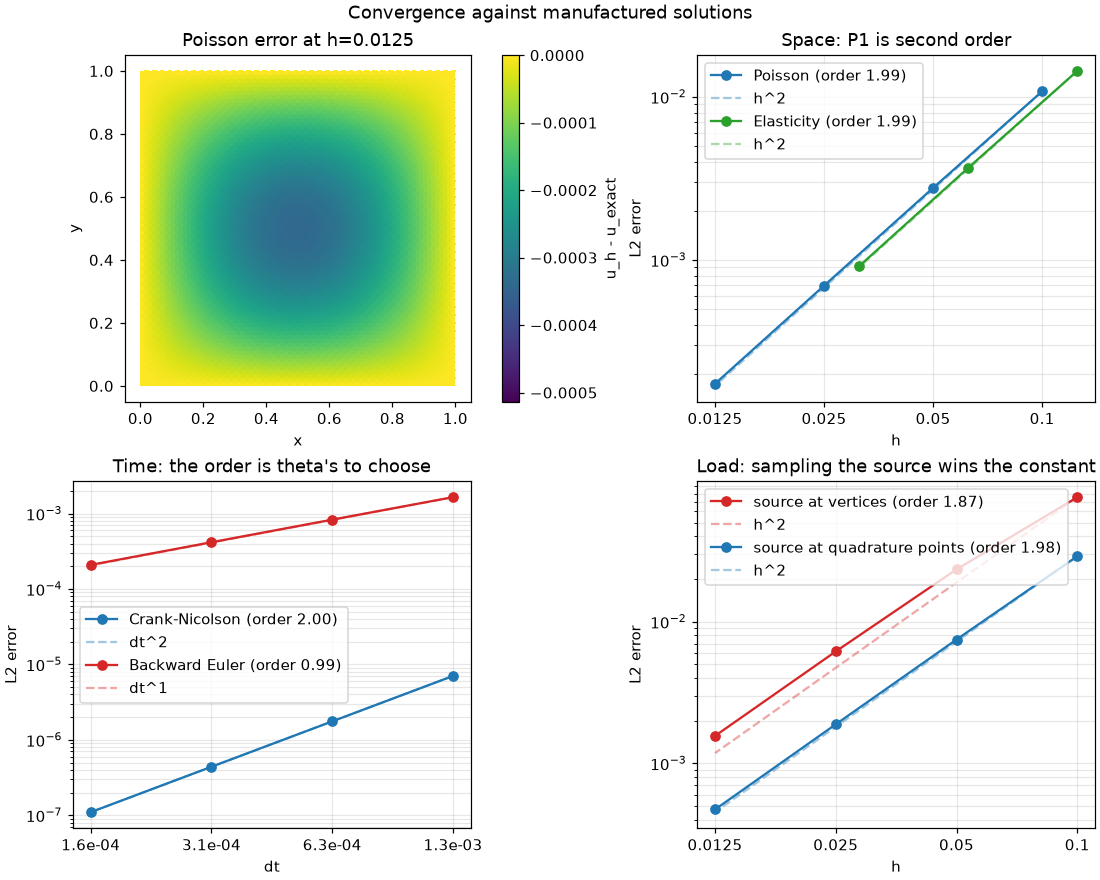
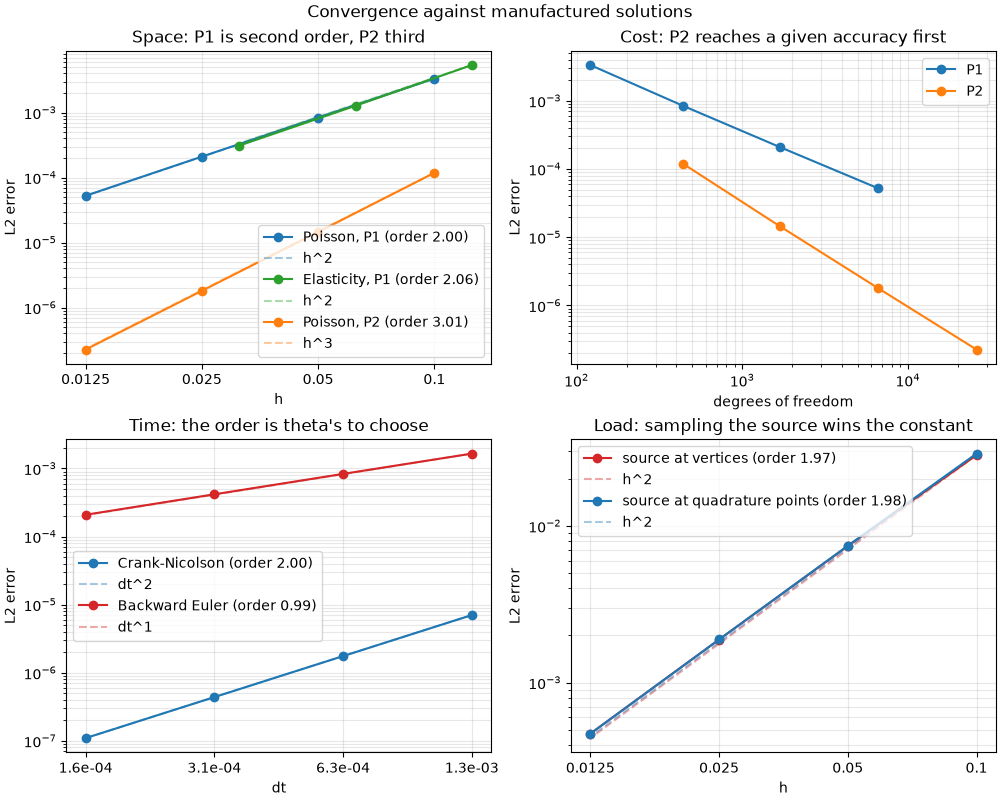
Tighten the accuracy demos; sample callable sources at quadrature points
convergence absorbs higher_order (space rates with P2, accuracy per DOF,
time, load); l2_projection shows the P2 space of the same mesh beside P1;
refinement adds error against cost for uniform and adaptive refinement.

Building that chart exposed that LinearProblem integrated a callable
source as its nodal interpolant through the mass matrix, the shortcut the
load panel shows is 3x worse. A callable source is now wrapped in a
LinearForm and sampled at the quadrature points; constants and nodal
arrays keep the mass path.

diff --git a/examples/solver_demos.py b/examples/solver_demos.py
@@ -45,13 +45,14 @@ np.set_printoptions(suppress=True)
 np.set_printoptions(linewidth=200)
 
 def demo_l2_projection(mesh, reference_resolution=120):
-    """An oscillatory function projected onto a coarse P1 space, showing what the space
-    can represent."""
+    """An oscillatory function projected onto a coarse mesh's P1 and P2 spaces, showing
+    what each can represent."""
     def cool_f(point):
         x, y = point - np.array([0.5, 0.5])
         return [np.sin(40 * (x**2 + y**2))]
 
-    solution = Solver(mesh, Projection(source=cool_f)).solve()
+    p1 = Solver(mesh, Projection(source=cool_f)).solve()
+    p2 = Solver(mesh, Projection(source=cool_f), element_type=QuadraticTriangleElement).solve()
 
     # The target sampled on a fine mesh, so the left panel is the function itself rather
     # than another coarse approximation of it. The projection (right) is on the demo's own
@@ -60,18 +61,22 @@ def demo_l2_projection(mesh, reference_resolution=120):
     xy = fine.vertices - np.array([0.5, 0.5])
     exact = np.sin(40 * (xy[:, 0]**2 + xy[:, 1]**2))
 
-    plotter = Plotter(1, 2, title='L2 projection onto a P1 space')
+    plotter = Plotter(1, 3, title='L2 projection onto one coarse mesh')
     plotter.plot(fine, exact, mode='colored', idx=(0, 0), label='', clim=(-1, 1),
                  title='The target: sin(40 r^2)')
-    plotter.plot(mesh, solution.u, mode='colored', idx=(0, 1), label='', clim=(-1, 1),
-                 title=f'Projected onto P1 ({len(mesh.elements)} triangles)')
+    plotter.plot(mesh, p1.u, mode='colored', idx=(0, 1), label='', clim=(-1, 1),
+                 title=f'P1 ({len(mesh.elements)} triangles)')
+    plotter.plot(mesh, p2.u, mode='colored', idx=(0, 2), label='', clim=(-1, 1),
+                 title='P2, same mesh', space=p2.space)
     return DemoResult([Figure(
         plotter,
-        'How well the P1 space can represent a function at all, before any PDE. Left: the '
-        'target sin(40 r^2), whose rings tighten with radius. Right: its L2 projection onto '
-        'a coarse mesh. The slow inner rings come through; where one ring spans only a '
-        'couple of triangles the space can no longer follow it, and the outer rings break '
-        'up into the mesh. This is the error floor every solver on this mesh starts from.')])
+        'How well a space can represent a function at all, before any PDE. Left: the '
+        'target sin(40 r^2), whose rings tighten with radius. Middle: its L2 projection '
+        'onto the P1 space of a coarse mesh. The slow inner rings come through; where one '
+        'ring spans only a couple of triangles the space can no longer follow it, and the '
+        'outer rings break up into the mesh. Right: the P2 space of the same mesh, whose '
+        'edge-midpoint nodes let each element curve, follows the rings further out. This '
+        'representation error is the floor every solver on the mesh starts from.')])
 
 def demo_poisson(length=7.0, height=4.0, chord=3.0, angle_of_attack=12.0,
                  n_points=80, min_angle=20, max_area_fraction=0.0015):
@@ -170,24 +175,31 @@ def _share_panel_limits(plotter, n_panels):
 
 def demo_convergence(resolutions=(11, 21, 41, 81), elastic_resolutions=(9, 17, 33),
                      step_counts=(16, 32, 64, 128)):
-    """Convergence rates in space and time against manufactured solutions."""
+    """Convergence rates in space and time against manufactured solutions, P1 against
+    P2, and the load built two ways."""
     # The one demo that shows not what the solver computed but how wrong it was:
     #
     #   in space  P1 elements are O(h^2) (halve h, quarter the error) for a scalar
-    #             unknown and for a coupled vector one alike;
+    #             unknown and for a coupled vector one alike; P2 is O(h^3);
     #   in time   the theta method's order is theta's to choose: 1 at backward Euler,
     #             2 at Crank-Nicolson, the default.
     #
     # The same studies run as assertions in tests/test_convergence{,_elasticity,_heat}.py.
     solves = poisson_convergence(resolutions)
+    p2_solves = poisson_p2_convergence(resolutions)
     poisson_study = ConvergenceStudy.from_solves(solves)
+    p2_study = ConvergenceStudy.from_solves(p2_solves)
     elastic_study = ConvergenceStudy.from_solves(elastic_convergence(elastic_resolutions))
+    # DOF counts for the accuracy-per-cost view: P2 spends more unknowns per element,
+    # and the question is whether its faster rate pays that back.
+    p1_dofs = np.array([FunctionSpace(s.mesh).n_dofs for s in solves])
+    p2_dofs = np.array([FunctionSpace(s.mesh, QuadraticTriangleElement).n_dofs
+                        for s in p2_solves])
     # Step counts chosen to sit in the asymptotic band: over coarser steps
     # Crank-Nicolson reads an order near 3, because lambda*dt is not yet small and
     # the leading error term is not yet the one that dominates.
     crank_nicolson = theta_convergence(0.5, step_counts)
     backward_euler = theta_convergence(1.0, step_counts)
-    finest = solves[-1]
     # The same P1 solve with the source read only at the vertices (its linear interpolant)
     # against one sampled at the quadrature points: the rate is the same, the constant
     # is not.
@@ -198,14 +210,19 @@ def demo_convergence(resolutions=(11, 21, 41, 81), elastic_resolutions=(9, 17, 3
 
     plotter = Plotter(2, 2, figsize=(10.0, 8.0),
                       title='Convergence against manufactured solutions')
-    plotter.plot(finest.mesh, finest.pointwise_error, mode='colored', idx=(0, 0),
-                 label='u_h - u_exact', title=f'Poisson error at h={finest.h:.3g}')
-
-    space = plotter.chart_ax(idx=(0, 1), xlabel='h', ylabel='L2 error')
-    _plot_study(space, poisson_study, 'Poisson', 'tab:blue', 2, 'h')
-    _plot_study(space, elastic_study, 'Elasticity', 'tab:green', 2, 'h')
-    space.set_title('Space: P1 is second order')
+    space = plotter.chart_ax(idx=(0, 0), xlabel='h', ylabel='L2 error')
+    _plot_study(space, poisson_study, 'Poisson, P1', 'tab:blue', 2, 'h')
+    _plot_study(space, elastic_study, 'Elasticity, P1', 'tab:green', 2, 'h')
+    _plot_study(space, p2_study, 'Poisson, P2', 'tab:orange', 3, 'h')
+    space.set_title('Space: P1 is second order, P2 third')
     _tidy_log_axis(space, poisson_study.step)
+
+    cost = plotter.chart_ax(idx=(0, 1), xlabel='degrees of freedom', ylabel='L2 error')
+    cost.loglog(p1_dofs, poisson_study.error, 'o-', color='tab:blue', label='P1')
+    cost.loglog(p2_dofs, p2_study.error, 'o-', color='tab:orange', label='P2')
+    cost.set_title('Cost: P2 reaches a given accuracy first')
+    cost.grid(True, which='both', alpha=0.3)
+    cost.legend()
 
     time = plotter.chart_ax(idx=(1, 0), xlabel='dt', ylabel='L2 error')
     _plot_study(time, crank_nicolson, 'Crank-Nicolson', 'tab:blue', 2, 'dt')
@@ -220,7 +237,8 @@ def demo_convergence(resolutions=(11, 21, 41, 81), elastic_resolutions=(9, 17, 3
     _tidy_log_axis(load, load_steps)
 
     rows = ['                      fitted order   expected']
-    for name, study, expected in (('Poisson (h)', poisson_study, 2),
+    for name, study, expected in (('Poisson P1 (h)', poisson_study, 2),
+                                  ('Poisson P2 (h)', p2_study, 3),
                                   ('Elasticity (h)', elastic_study, 2),
                                   ('Crank-Nicolson (dt)', crank_nicolson, 2),
                                   ('Backward Euler (dt)', backward_euler, 1),
@@ -229,53 +247,15 @@ def demo_convergence(resolutions=(11, 21, 41, 81), elastic_resolutions=(9, 17, 3
         rows.append(f'{name:<22}{study.fitted_order:>9.2f}{expected:>11}')
     return DemoResult(
         [Figure(plotter,
-                'Top left: the Poisson error, zero on the boundary where the solution is '
-                'pinned and deepest at the centre. Top right: halving h quarters that error, '
-                'for a scalar unknown and for a coupled vector one alike. Bottom left: the '
-                'same measurement against the time step, where backward Euler is first '
-                'order and Crank-Nicolson second, for the same cost per step. Bottom right: '
-                'an oscillatory source read only at the vertices against one sampled at the '
-                'quadrature points. Both are second order; the sampled load is about 3x '
-                'more accurate on every mesh.')],
-        text='\n'.join(rows),
-    )
-
-def demo_higher_order(resolutions=(11, 21, 41, 81)):
-    """P1 against P2 elements on one manufactured problem, in rate and in cost."""
-    # Same problem, two element orders. P2 carries the extra edge-midpoint DOFs that
-    # let its solution curve within an element; the rate is what that buys.
-    p1_solves = poisson_convergence(resolutions)
-    p2_solves = poisson_p2_convergence(resolutions)
-    p1 = ConvergenceStudy.from_solves(p1_solves)
-    p2 = ConvergenceStudy.from_solves(p2_solves)
-    # DOF counts drive the accuracy-per-cost view: P2 spends more unknowns per element,
-    # and the question is whether its faster rate pays that back.
-    p1_dofs = np.array([FunctionSpace(s.mesh).n_dofs for s in p1_solves])
-    p2_dofs = np.array([FunctionSpace(s.mesh, QuadraticTriangleElement).n_dofs
-                        for s in p2_solves])
-
-    plotter = Plotter(1, 2, title='Higher-order accuracy: P1 vs P2')
-    rate = plotter.chart_ax(idx=(0, 0), xlabel='h', ylabel='L2 error')
-    _plot_study(rate, p1, 'P1', 'tab:blue', 2, 'h')
-    _plot_study(rate, p2, 'P2', 'tab:orange', 3, 'h')
-    rate.set_title('Rate: P2 is third order, P1 second')
-    _tidy_log_axis(rate, p1.step)
-
-    cost = plotter.chart_ax(idx=(0, 1), xlabel='degrees of freedom', ylabel='L2 error')
-    cost.loglog(p1_dofs, p1.error, 'o-', color='tab:blue', label='P1')
-    cost.loglog(p2_dofs, p2.error, 'o-', color='tab:orange', label='P2')
-    cost.set_title('Cost: P2 reaches a given accuracy first')
-    cost.grid(True, which='both', alpha=0.3)
-
-    rows = ['            fitted order   expected']
-    for name, study, expected in (('P1', p1, 2), ('P2', p2, 3)):
-        rows.append(f'{name:<12}{study.fitted_order:>9.2f}{expected:>11}')
-    return DemoResult(
-        [Figure(plotter,
-                'Left: on the same meshes, halving h quarters the P1 error (order 2) and '
-                'divides the P2 error by eight (order 3). Right: the same errors against the '
-                'number of unknowns. P2 spends more DOFs per element but reaches a given '
-                'accuracy with fewer of them, so it is cheaper where the solution is smooth.')],
+                'Top left: on the same meshes, halving h quarters the P1 error (order 2), '
+                'for a scalar unknown and for a coupled vector one alike, and divides the P2 '
+                'error by eight (order 3). Top right: the same errors against the number of '
+                'unknowns; P2 spends more DOFs per element but reaches a given accuracy with '
+                'fewer of them. Bottom left: the error against the time step, where backward '
+                'Euler is first order and Crank-Nicolson second, for the same cost per step. '
+                'Bottom right: an oscillatory source read only at the vertices against one '
+                'sampled at the quadrature points. Both are second order; the sampled load '
+                'is about 3x more accurate on every mesh.')],
         text='\n'.join(rows),
     )
 
@@ -1528,6 +1508,4 @@ DEMOS = [
     Demo('convergence', demo_convergence, section=ACCURACY,
          smoke_kwargs={'resolutions': (11, 21), 'elastic_resolutions': (9, 17),
               'step_counts': (16, 32)}),
-    Demo('higher_order', demo_higher_order, section=ACCURACY,
-         smoke_kwargs={'resolutions': (11, 21)}),
 ]

diff --git a/examples/refinement_demo.py b/examples/refinement_demo.py
@@ -10,6 +10,7 @@ import numpy as np
 
 from fem.adaptivity import AdaptiveRefinement
 from fem.boundary import BoundaryConditions, BCType
+from fem.convergence import l2_norm
 from fem.equations import Poisson
 from fem.estimators import residual_estimator
 from fem.mesh.mesh import Mesh
@@ -23,16 +24,23 @@ from demo_registry import Demo, DemoResult, Figure
 from domains import square
 
 
-def demo_refinement(_mesh):
-    """Adaptive refinement driven by an error estimator on a peaked Poisson source."""
+def demo_refinement(_mesh, uniform_resolutions=(10, 20, 40, 80, 160), adaptive_rounds=30):
+    """Adaptive refinement driven by an error estimator on a peaked Poisson source,
+    against uniform refinement at the same cost."""
     mesh = create_rect_mesh(corners=[[0.0, 0.0], [1.0, 1.0]], resolution=(20, 20))
     w, h = 1.0, 1.0
+    a = 300      # the peak's sharpness: its width is about 1/sqrt(2a)
 
+    # The source is -laplacian of a * exp(-a r^2), which is within 2e-4 of zero on the
+    # boundary, so that peak is the exact solution to the precision this chart needs.
     def peaked_source(point):
-        a = 50
         x, y = point - np.array([w/2, h/2])
         r2 = x**2 + y**2
         return 4*a*a*(1-a*r2)*e**(-a*r2)
+
+    def exact(points):
+        r2 = np.sum((points - np.array([w/2, h/2]))**2, axis=1)
+        return a * np.exp(-a * r2)
 
     bc = BoundaryConditions()
     bc.add(BCType.DIRICHLET, everywhere(), 0)
@@ -51,6 +59,7 @@ def demo_refinement(_mesh):
         estimator,
         max_triangles=3000,
         max_iters=20,
+        refine_fraction=0.5,
     ).run()
     refined_mesh = refined_solver.mesh
     refined_error = estimator.estimate(refined_solver)
@@ -82,6 +91,37 @@ def demo_refinement(_mesh):
                title=f'Error η (max: {refined_max:.3f}, ‖η‖: {refined_norm:.2f})',
                idx=(0, 2), clim=error_clim, cmap='YlOrRd', log_scale=True)
 
+    # The payoff: error against cost, refining uniformly and adaptively. Each adaptive
+    # round refines the worst elements once and re-solves; each point is one round.
+    def error_of(solver, solution):
+        return l2_norm(solver.space, solution.u - exact(solver.space.node_coords))
+
+    uniform_dofs, uniform_errors = [], []
+    for n in uniform_resolutions:
+        solver = Solver(create_rect_mesh(corners=[[0.0, 0.0], [1.0, 1.0]],
+                                         resolution=(n, n)), equation, bc)
+        uniform_dofs.append(solver.space.n_dofs)
+        uniform_errors.append(error_of(solver, solver.solve()))
+
+    adaptive_solver = Solver(mesh.copy(), equation, bc)
+    adaptive_dofs = [adaptive_solver.space.n_dofs]
+    adaptive_errors = [error_of(adaptive_solver, adaptive_solver.solve())]
+    for _ in range(adaptive_rounds):
+        solution = AdaptiveRefinement(adaptive_solver, estimator, max_triangles=10**9,
+                                      max_iters=1, refine_fraction=0.5).run()
+        if adaptive_solver.space.n_dofs > max(uniform_dofs) // 2:
+            break
+        adaptive_dofs.append(adaptive_solver.space.n_dofs)
+        adaptive_errors.append(error_of(adaptive_solver, solution))
+
+    payoff = Plotter(title='Error against cost')
+    chart = payoff.chart_ax(xlabel='degrees of freedom', ylabel='L2 error')
+    chart.loglog(uniform_dofs, uniform_errors, 'o-', color='tab:blue', label='uniform')
+    chart.loglog(adaptive_dofs, adaptive_errors, '.-', color='tab:red', label='adaptive')
+    chart.set_title('Uniform against adaptive refinement')
+    chart.grid(True, which='both', alpha=0.3)
+    chart.legend()
+
     # What red-green splitting does to an element.
     vertices = np.array([[0, 0], [1, 0], [1, 1], [0, 1], [0.5, 0.5]])
     elements = np.array([[0, 1, 4], [1, 2, 4], [2, 3, 4], [3, 0, 4]])
@@ -99,6 +139,13 @@ def demo_refinement(_mesh):
                    idx=(0, 1), title='Refined (red / green)')
 
     return DemoResult([
+        Figure(payoff,
+               'The error against the number of unknowns, refining the whole mesh (blue) '
+               'and refining where the estimator points (red). The peak is small next to '
+               'the domain, so uniform refinement spends most of its unknowns where the '
+               'solution is already flat; the adaptive mesh reaches the same error with '
+               'about a third as many.',
+               'payoff'),
         Figure(before,
                'Uniform mesh with a posteriori error estimate η. The estimator bounds '
                'the local discretization error; high values (red) indicate where the '
@@ -117,5 +164,6 @@ def demo_refinement(_mesh):
 
 
 DEMOS = [
-    Demo('refinement', demo_refinement, section='Accuracy & performance', domain=square),
+    Demo('refinement', demo_refinement, section='Accuracy & performance', domain=square,
+         smoke_kwargs={'uniform_resolutions': (10, 20), 'adaptive_rounds': 2}),
 ]

diff --git a/tests/test_problem.py b/tests/test_problem.py
@@ -200,6 +200,24 @@ def test_with_operator_leaves_the_original_alone(make_unit_square):
     np.testing.assert_array_equal(original.tangent().toarray(), before)
 
 
+def test_callable_source_is_sampled_at_the_quadrature_points(make_unit_square):
+    """A callable source builds the same load as the LinearForm it is wrapped in, not
+    the mass matrix times its nodal values."""
+    from fem.forms import LinearForm
+
+    mesh = make_unit_square(6)
+    space = FunctionSpace(mesh)
+
+    def peaked(point):
+        return float(np.exp(-40 * np.sum((point - 0.5) ** 2)))
+
+    sampled = LinearProblem(space, LaplacianForm(), peaked).load
+    explicit = LinearProblem(space, LaplacianForm(), LinearForm(peaked)).load
+    nodal = space.mass_matrix @ np.array([peaked(p) for p in space.node_coords])
+    assert np.allclose(sampled, explicit)
+    assert not np.allclose(sampled, nodal)
+
+
 def test_energy_problem_rejects_a_source(make_unit_square):
     space = FunctionSpace(make_unit_square(6), n_components=2)
     bc = BoundaryConditions()

diff --git a/fem/problem.py b/fem/problem.py
@@ -114,9 +114,11 @@ class LinearProblem:
                 boundary_mass @ neumann.traction.flatten()).flatten()
 
         # Callers pass only the volume source; the BC resolution supplies the traction
-        # terms above. The source is a field (integrated as its P1 interpolant via the
-        # cached mass matrix) or a LinearForm sampled at the quadrature points, for a
-        # source that varies within an element.
+        # terms above. A callable source is sampled at the quadrature points (as a
+        # LinearForm), which captures variation within an element; a constant or a
+        # nodal array is integrated as its interpolant through the cached mass matrix.
+        if callable(source) and not isinstance(source, LinearForm):
+            source = LinearForm(source, n_components=space.n_components)
         if isinstance(source, LinearForm):
             volume_load = space.assemble_load(source)
         else:

diff --git a/examples/make_readme_figures.py b/examples/make_readme_figures.py
@@ -58,7 +58,6 @@ FIGURES: list[tuple[str, str]] = [
     # Accuracy & performance
     ('l2_projection', 'l2_projection.png'),
     ('convergence', 'convergence.png'),
-    ('higher_order', 'higher_order.png'),
     ('refinement-after', 'refinement.png'),
 ]
 

diff --git a/README.md b/README.md
@@ -173,21 +173,20 @@ plays the SIMP iterations frame by frame, from an even grey to the black-and-whi
 ### Convergence against manufactured solutions
 
 Against exactly known (manufactured) solutions, P1 elements are second order in space
-(halve $h$, quarter the error) for both a scalar unknown and a coupled vector one. In
-time, backward Euler is first order and Crank-Nicolson second. How the load is built
+(halve $h$, quarter the error) for both a scalar unknown and a coupled vector one, and
+P2 elements third. In time, backward Euler is first order and Crank-Nicolson second.
+How the load is built
 matters too: sampling the source at the quadrature points instead of reading it at
 the vertices keeps the rate and improves the constant about 3x. Every rate here also
 runs as an assertion in the test suite.
 
-<p align="center"><img src="images/convergence.png" width="780" alt="Convergence rates in space and time"></p>
+<p align="center"><img src="images/convergence.png" width="780" alt="Convergence rates in space and time, P1 against P2, and the load built two ways"></p>
 
 ### Higher-order elements
 
 P2 (quadratic) triangles carry edge-midpoint DOFs that let the solution curve within an
-element. On the same meshes they are third order in $L^2$ where P1 is second, and
-reach a given accuracy with fewer degrees of freedom.
-
-<p align="center"><img src="images/higher_order.png" width="780" alt="P1 vs P2 accuracy and cost"></p>
+element. On the same meshes they are third order in $L^2$ where P1 is second (top
+left above), and reach a given accuracy with fewer degrees of freedom (top right).
 
 Curved (isoparametric) boundary elements go a step further. On a boundary that
 carries an analytic curve (a `Circle` or `Arc`), an `IsoparametricTriangleElement`
@@ -207,7 +206,8 @@ across edges, and the boundary residual (2D only). The Zienkiewicz-Zhu recovery
 estimator measures the gap between the discrete flux and a recovered continuous one.
 The goal-oriented estimator refines toward a chosen quantity of interest through an
 adjoint solve. Below, the residual estimator on a peaked Poisson source concentrates
-the mesh where the solution is hardest to approximate.
+the mesh where the solution is hardest to approximate, and reaches a given error with
+about a third of the unknowns uniform refinement needs (the gallery has the chart).
 
 <p align="center"><img src="images/refinement.png" width="780" alt="Adaptive refinement on a peaked source"></p>
 
